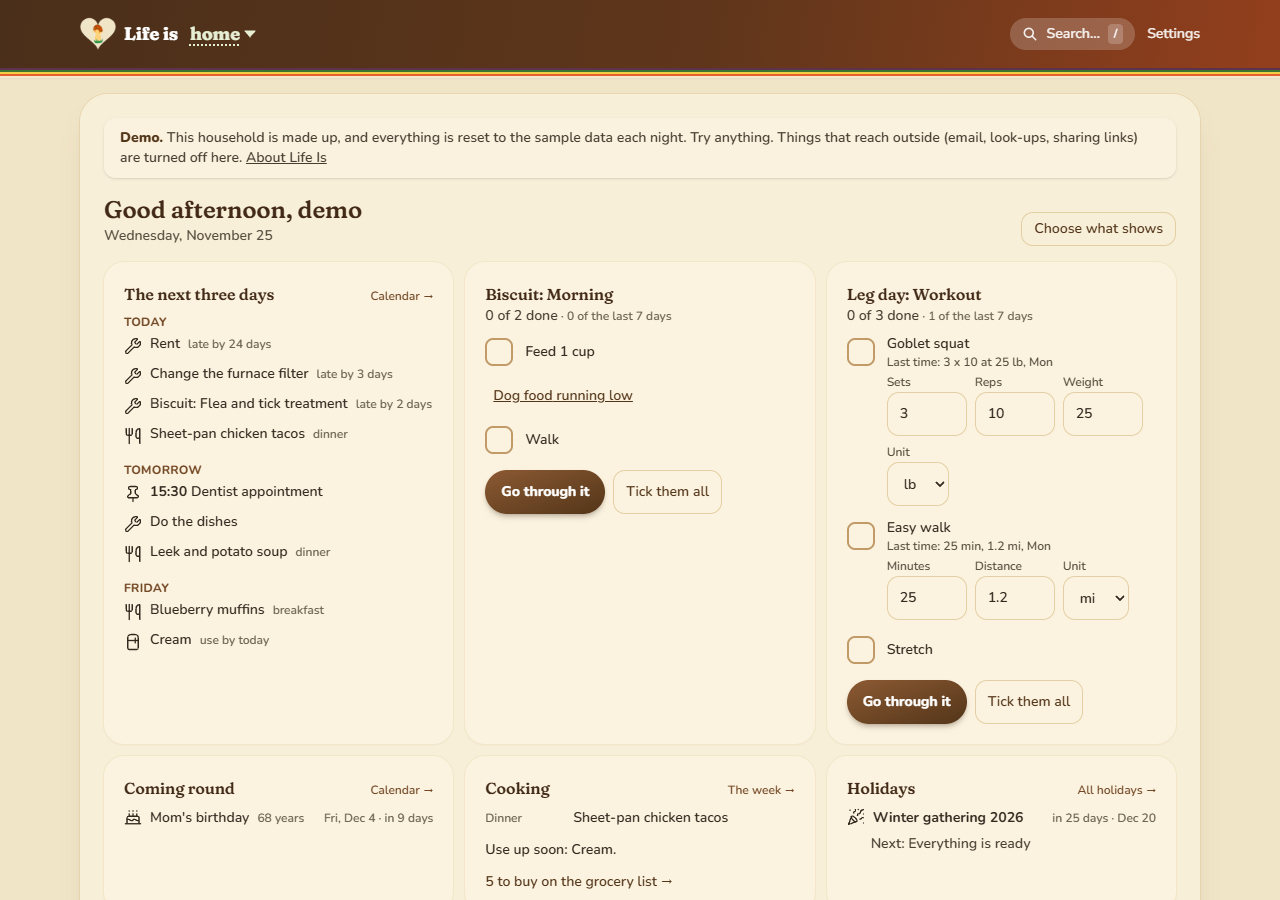
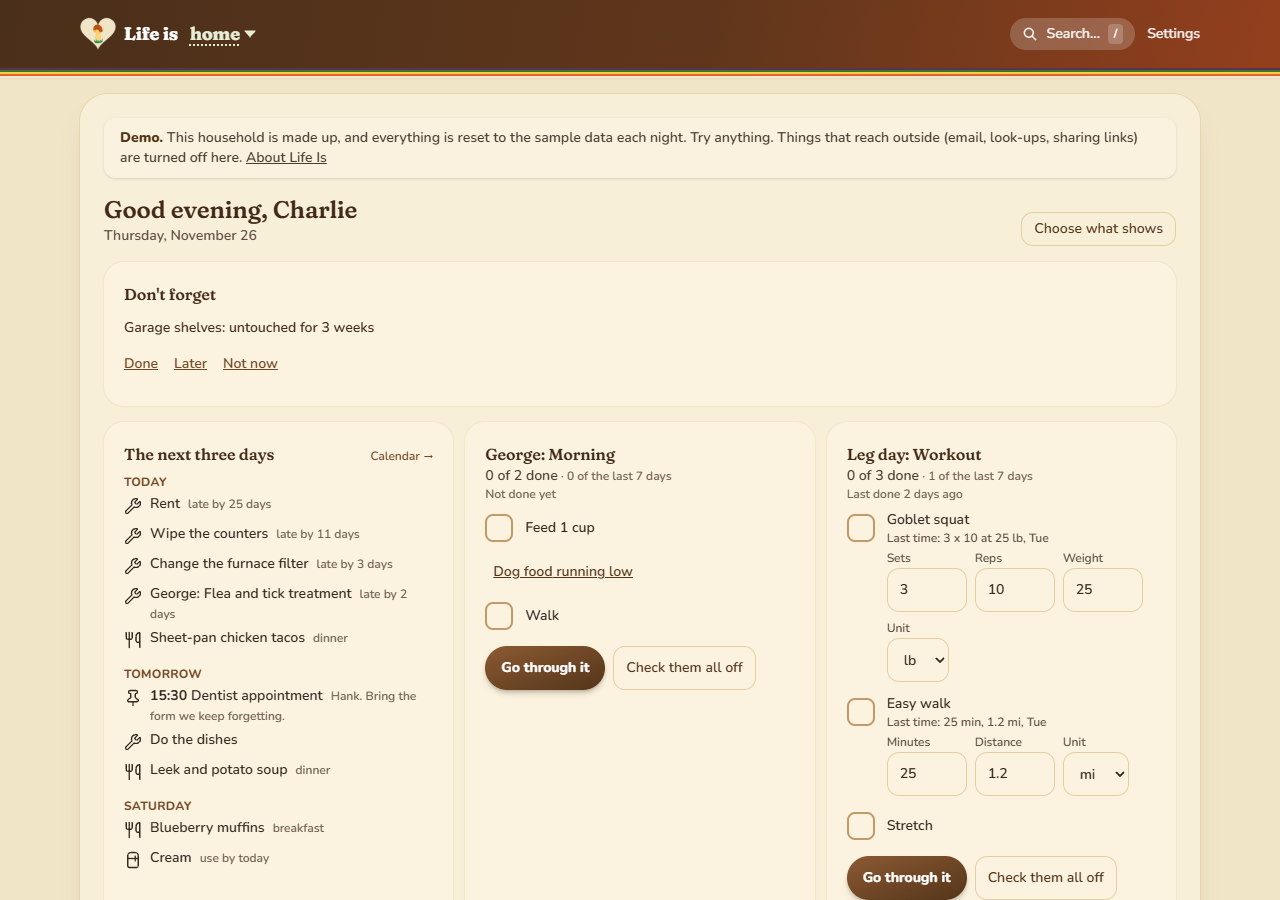
The website's routines guide says George: Morning, and its demo pictures show the new family. The guns walk-through checks the plain not-here line and its link back to Things, which replaced the silent jump.

diff --git a/docs/site/docs/routines.html b/docs/site/docs/routines.html
@@ -50,7 +50,7 @@
 <ol><li>Press <strong>Save</strong>.</li></ol>
 <p>For a routine for a household member, you can also set the <strong>chore points</strong> each finished time is worth.</p>
 <h2 id="routines-for-a-pet">Routines for a pet</h2>
-<p>A pet can have a routine, such as a dog's morning: feed, fresh water, walk. It shows on <strong>every</strong> person's front page, headed with the pet's name, like "Biscuit: Morning". It also shows on the pet's own page.</p>
+<p>A pet can have a routine, such as a dog's morning: feed, fresh water, walk. It shows on <strong>every</strong> person's front page, headed with the pet's name, like "George: Morning". It also shows on the pet's own page.</p>
 <ol><li>Open the pet's page (in <strong>Pets</strong>) and look under <strong>Routines</strong>. Under <strong>Add a routine for</strong> the pet's name, choose <strong>Add</strong> on <strong>Dog, daily</strong> or <strong>Cat, daily</strong>. They are plain steps to copy, and every part is yours to change. Or choose <strong>+ Make your own</strong>.</li><li>To use the pet's food, pick it under <strong>Food</strong> before you add. The feed steps then use it. Or open the routine with <strong>Change</strong> and choose <strong>A thing it uses</strong> on a step.</li><li>Anyone who signs in to this Life Is can check off a step. Each check keeps who checked it off and when, and everyone then reads it under the step, such as "Done at 7:10 AM by Sam". So nobody feeds the dog twice. Someone without a sign-in who checks off a step on your screen is kept under your name.</li><li>On a feed step that uses the food, <strong>running low</strong> puts the food on the grocery list. Life Is does not count the food down.</li></ol>
 <p>Each time of day shows "5 of the last 7 days". It never counts a streak.</p>
 <p>Only the person who made the routine can change or delete it. Monthly meds and flea treatment are not routines. They are the pet's care, and Life Is reminds you when they are due. Taking a pet away takes its routines too.</p>
